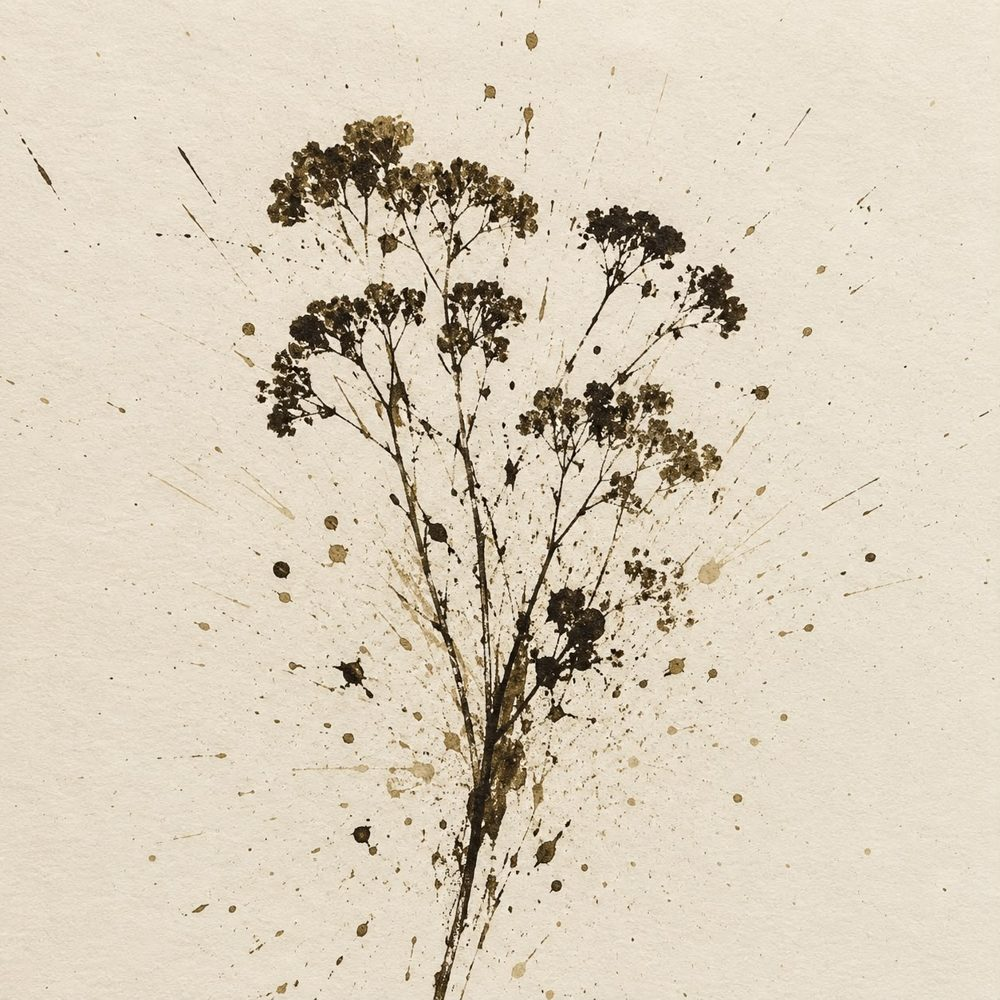
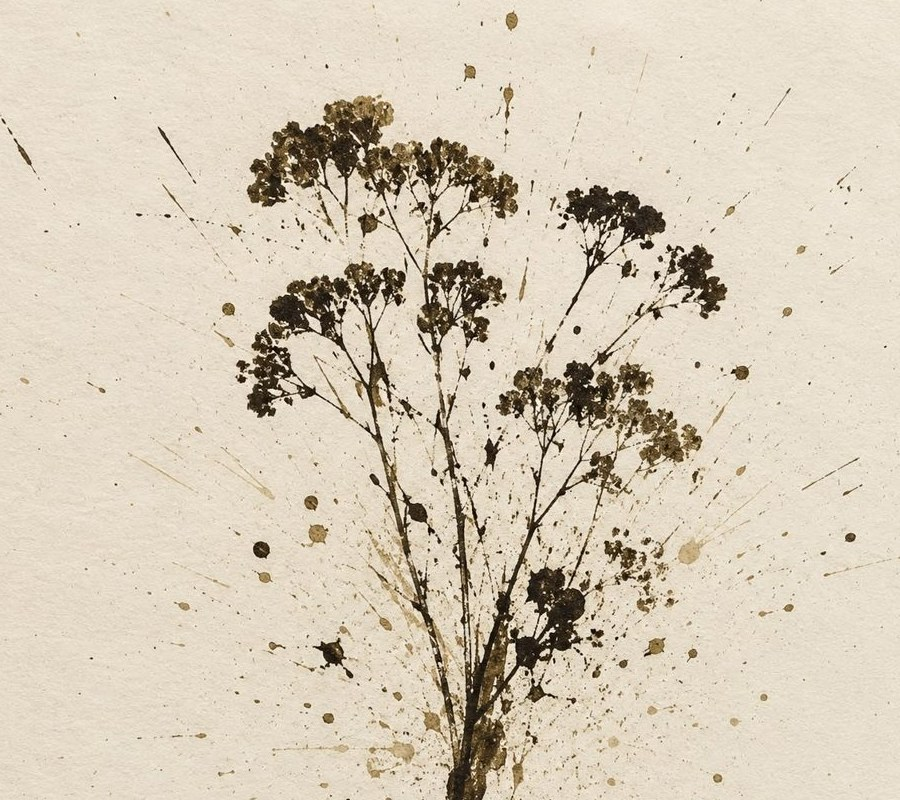
Améliore la lisibilité mobile
Photo détail différente pour éviter la répétition avec le hero,
lettrine sur le premier paragraphe, séparateur visuel au milieu du
long texte, et davantage d'air entre les paragraphes sur mobile.

diff --git a/index.html b/index.html
@@ -162,6 +162,9 @@ h1{
 .col p{font-family:var(--display);font-size:clamp(16.5px,1.6vw,18.5px);line-height:1.7;color:var(--ink-soft);margin:0 0 22px;max-width:46ch}
 .col p.lines{margin-bottom:0}
 .col p.lines + p.lines{margin-top:0}
+.col p.drop::first-letter{float:left;font-size:3.6em;line-height:.78;padding:5px 10px 0 0;font-weight:300;color:var(--terracotta)}
+.col p.col-break{text-align:center;color:var(--sable);letter-spacing:.4em;font-size:12px;margin:4px 0 30px;max-width:none}
+@media(max-width:860px){.col p{margin-bottom:26px}}
 .col strong{display:block;font-family:var(--display);font-weight:500;font-size:clamp(19px,2vw,22px);color:var(--ink);margin:6px 0 10px}
 .col ul{list-style:none;margin:0 0 24px;padding:0;display:grid;gap:10px}
 .col li{position:relative;padding-left:22px;font-family:var(--display);font-size:clamp(16.5px,1.6vw,18.5px);color:var(--ink-soft)}
@@ -298,11 +301,11 @@ footer a:hover{color:var(--paper)}
     <div class="spread">
       <!-- page 1 -->
       <div class="col rv">
-        <p>Depuis plus de 17 ans, je prends soin de la peau des femmes. Au fil des années, à travers chaque soin, chaque massage facialiste et chaque rencontre, j'ai appris à écouter la peau, à comprendre ses besoins, mais aussi à observer ce qui la révèle vraiment.</p>
+        <p class="drop">Depuis plus de 17 ans, je prends soin de la peau des femmes. Au fil des années, à travers chaque soin, chaque massage facialiste et chaque rencontre, j'ai appris à écouter la peau, à comprendre ses besoins, mais aussi à observer ce qui la révèle vraiment.</p>
         <p>Une peau lumineuse ne se résume jamais à une liste d'ingrédients. C'est une peau respectée, nourrie, accompagnée avec justesse.</p>
 
         <div class="jar-illus-wrap">
-          <img class="jar-illus" src="aube-pot.jpg" alt="Pot AUBE ouvert, crème visible, couvercle posé à côté, entouré de poteries et d'immortelle séchée">
+          <img class="jar-illus" src="aube-pot-detail.jpg" alt="Gros plan sur le pot AUBE ouvert, étiquette et texture de la crème">
         </div>
 
         <p>Après toutes ces années d'expérience, une évidence s'est imposée à moi : créer le soin que j'avais toujours rêvé d'utiliser moi-même.</p>
@@ -327,6 +330,7 @@ footer a:hover{color:var(--paper)}
 
       <!-- page 2 -->
       <div class="col rv">
+        <p class="col-break" aria-hidden="true">· · ·</p>
         <p>Je l'ai associée à la niacinamide, un actif incontournable pour lisser le grain de peau, renforcer la barrière cutanée, unifier le teint et révéler durablement son éclat naturel.</p>
         <p>Cette association est née de mon expérience du terrain, de centaines de visages observés et soignés au fil des années.</p>
 